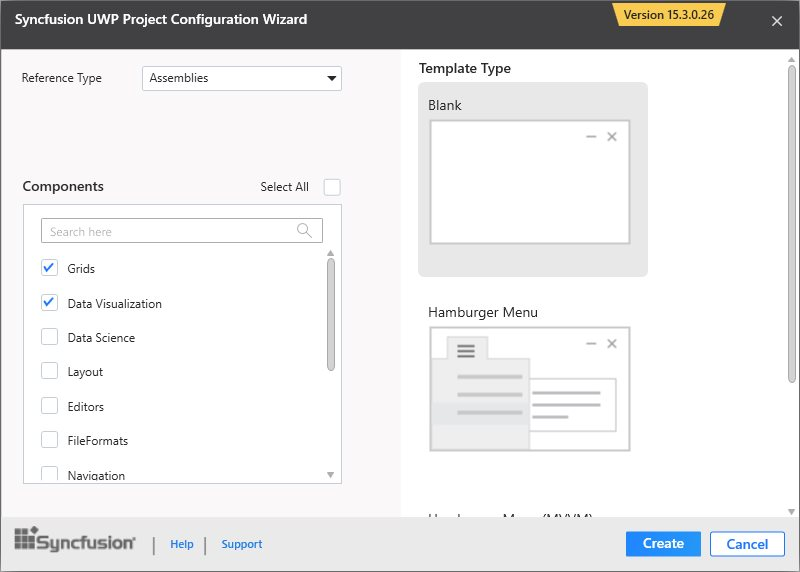
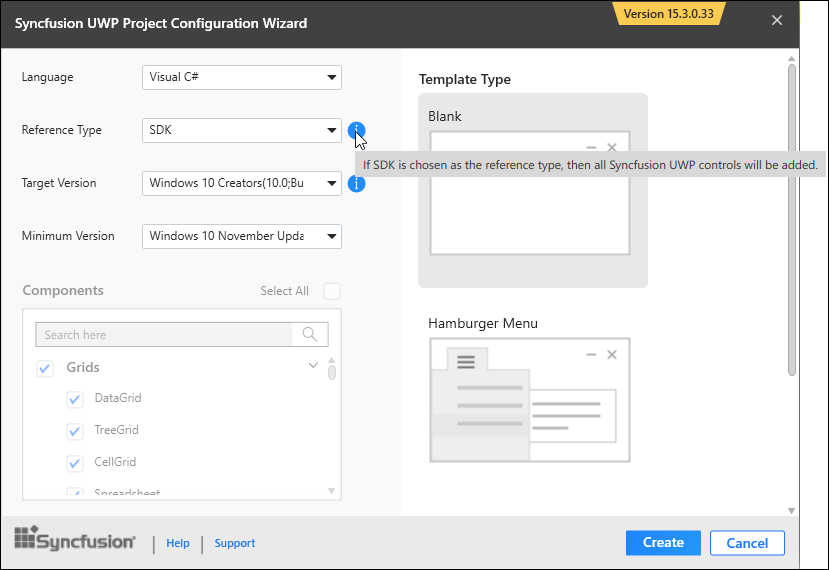
EXT-2847 Modify the UWP Project Template content in UWP User Guide

diff --git a/uwp/Add-Syncfusion-Controls.md b/uwp/Add-Syncfusion-Controls.md
@@ -163,15 +163,17 @@ The following steps direct you to create the **Syncfusion** **UWP** **Applicatio
 
 2. Name the **Project** and choose the destination location if required, then click **OK**. 
 
-3. The Target platform version selection wizard appears. Choose the target and minimum platform versions that your UWP application will support and click OK.
-
-   ![](Add-Syncfusion-Controls_images/Syncfusion-Project-Templates_img2.jpeg)
-
-4. Then Project Configuration Wizard appears. Choose the options to configure the Syncfusion UWP Application by using the following Project Configuration dialog.
+3. Then Project Configuration Wizard appears. Choose the options to configure the Syncfusion UWP Application by using the following Project Configuration dialog.
 
    #### Project configurations:
 
+   **Language:** Select the language, either Visual C# or Visual Basic.
+
    **Reference Type:** Select the reference type of UWP Project, either Assemblies or SDK.
+
+   **Target Version:** Choose the Target Version of the UWP platform that your project is targeting. This sets the **TargetPlatformVersion** setting in your project file.
+
+   **Minimum Version:** Choose the Minimum Version of the UWP platform that your project can work with. This sets the **TargetPlatformMinVersion** setting in your project file.
 
    **Template Type:** Select the template type of UWP Project, either Blank or Hamburger Menu or Hamburger Menu (MVVM).
 
@@ -180,11 +182,9 @@ The following steps direct you to create the **Syncfusion** **UWP** **Applicatio
    ![](Add-Syncfusion-Controls_images/Syncfusion-Project-Templates_img4.jpeg)
    
    N> If SDK is chosen as the reference type, then all the Syncfusion UWP controls will be added. So, you no need to select any components.
-
-   ![](Add-Syncfusion-Controls_images/Syncfusion-Project-Templates_img3.jpeg)
    
-5. Once you click Create button, the Syncfusion UWP Application is created.
+4. Once you click Create button, the Syncfusion UWP Application is created.
 
-6. Once the Project Configuration Wizard is done, the Syncfusion UWP Application is created with required SDK/references and pages.
+5. Once the Project Configuration Wizard is done, the Syncfusion UWP Application is created with required SDK/references and pages.
 
    ![](Add-Syncfusion-Controls_images/Syncfusion-Project-Templates_img5.jpeg)
